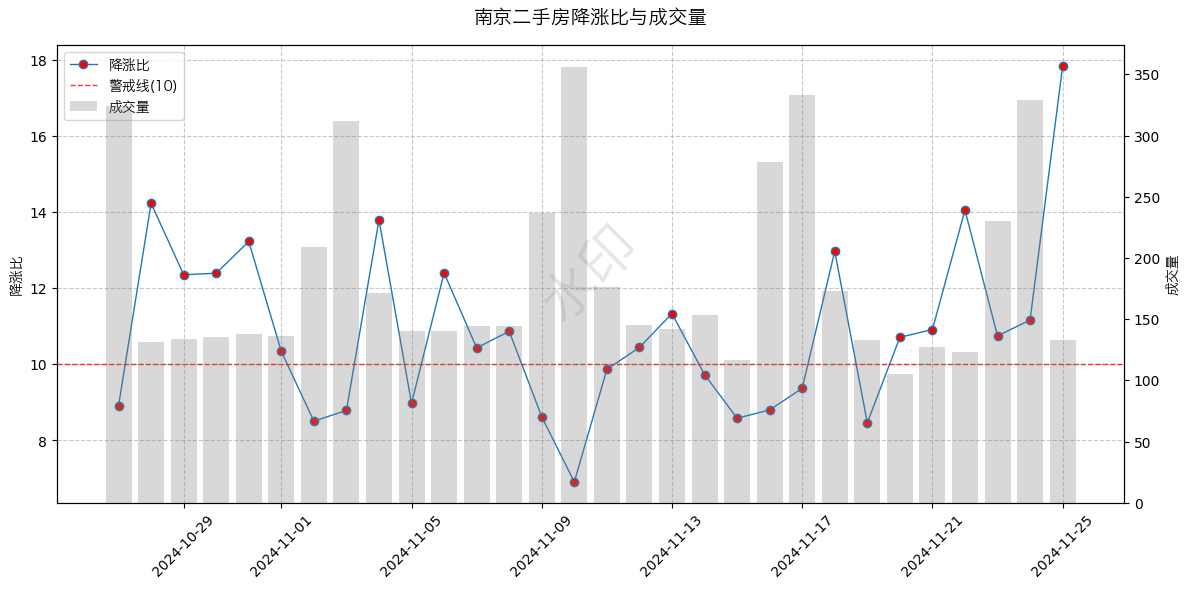
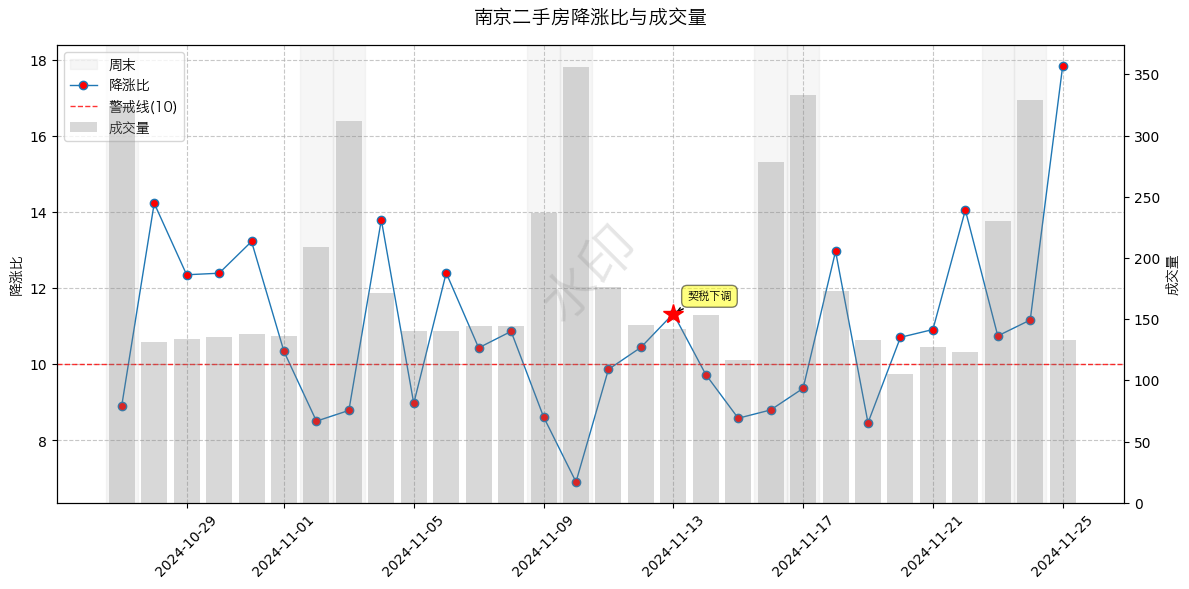
update py

diff --git a/house_scripts/plot_njhouse_price_ratio.py b/house_scripts/plot_njhouse_price_ratio.py
@@ -5,8 +5,12 @@ import os
 from matplotlib.font_manager import FontProperties
 
 def plot_price_change_ratio(csv_path):
-    # 读取CSV文件
+    # 读取房价数据
     df = pd.read_csv(csv_path, encoding='utf-8-sig')
+    
+    # 读取政策数据
+    policy_df = pd.read_csv('./njhouse_stock_daily/njhouse_policy.csv', encoding='utf-8-sig')
+    policy_df['日期'] = pd.to_datetime(policy_df['日期'])
     
     # 将日期列转换为日期类型
     df['日期'] = pd.to_datetime(df['日期'])
@@ -22,6 +26,19 @@ def plot_price_change_ratio(csv_path):
     
     # 创建图表和第一个Y轴
     fig, ax1 = plt.subplots(figsize=(12, 6))  # 调整图表大小
+    
+    # 在创建图表之后，绘制主数据线之前添加周末背景
+    # 获取周末的日期
+    weekend_mask = df['日期'].dt.dayofweek.isin([5, 6])  # 5是周六，6是周日
+    weekend_dates = df[weekend_mask]['日期']
+    
+    # 为每个周末日期添加垂直的背景色带
+    for date in weekend_dates:
+        ax1.axvspan(date - pd.Timedelta(hours=12),  # 向左偏移12小时
+                   date + pd.Timedelta(hours=12),  # 向右偏移12小时
+                   alpha=0.2,
+                   color='lightgray',
+                   label='周末' if date == weekend_dates.iloc[0] else "")  # 只在图例中显示一次
     
     # 绘制主数据线（降涨比）
     line1 = ax1.plot(df['日期'], df['价格变动比'], 
@@ -58,7 +75,18 @@ def plot_price_change_ratio(csv_path):
     # 合并两个轴的图例
     lines1, labels1 = ax1.get_legend_handles_labels()
     lines2, labels2 = ax2.get_legend_handles_labels()
-    ax1.legend(lines1 + lines2, labels1 + labels2, prop=font, loc='upper left')
+    
+    # 移除重复的周末图例（如果有的话）
+    unique_labels = []
+    unique_lines = []
+    seen_labels = set()
+    for line, label in zip(lines1 + lines2, labels1 + labels2):
+        if label not in seen_labels:
+            seen_labels.add(label)
+            unique_labels.append(label)
+            unique_lines.append(line)
+    
+    ax1.legend(unique_lines, unique_labels, prop=font, loc='upper left')
     
     # 设置标题
     ax1.set_title('南京二手房降涨比与成交量', 
@@ -83,6 +111,31 @@ def plot_price_change_ratio(csv_path):
     # 调整x轴显示
     ax1.tick_params(axis='x', rotation=45)
     plt.tight_layout()
+    
+    # 在图表上标注政策点
+    for idx, row in policy_df.iterrows():
+        # 找到政策日期对应的降涨比值
+        if row['日期'] in df['日期'].values:
+            y_value = df[df['日期'] == row['日期']]['价格变动比'].values[0]
+            
+            # 添加政策点标记
+            ax1.plot(row['日期'], y_value, 
+                    marker='*',
+                    markersize=15,
+                    color='red',
+                    zorder=5)
+            
+            # 添加政策说明文本
+            ax1.annotate(row['政策'],
+                        xy=(row['日期'], y_value),
+                        xytext=(10, 10),
+                        textcoords='offset points',
+                        fontproperties=font,
+                        fontsize=8,
+                        bbox=dict(boxstyle='round,pad=0.5',
+                                fc='yellow',
+                                alpha=0.5),
+                        arrowprops=dict(arrowstyle='->'))
     
     # 获取当前日期
     current_date = datetime.now().strftime('%Y-%m-%d')

diff --git a/house_scripts/plot_njhouse_stock.py b/house_scripts/plot_njhouse_stock.py
@@ -10,15 +10,27 @@ plt.rcParams['axes.unicode_minus'] = False     # 解决负号显示问题
 def plot_total_listings(csv_path):
     # 读取CSV文件
     df = pd.read_csv(csv_path, encoding='utf-8-sig')
+    policy_df = pd.read_csv('./njhouse_stock_daily/njhouse_policy.csv', encoding='utf-8-sig')
     
     # 确保日期列是datetime格式
     df['日期'] = pd.to_datetime(df['日期'])
+    policy_df['日期'] = pd.to_datetime(policy_df['日期'])
     
     # 按日期排序
     df = df.sort_values('日期')
     
     # 创建图表和主Y轴
     fig, ax1 = plt.subplots(figsize=(12, 6))
+    
+    # 标记周末背景
+    weekend_mask = df['日期'].dt.dayofweek.isin([5, 6])  # 5是周六，6是周日
+    weekend_dates = df[weekend_mask]['日期']
+    for date in weekend_dates:
+        ax1.axvspan(date - pd.Timedelta(hours=12), 
+                   date + pd.Timedelta(hours=12),
+                   alpha=0.1,
+                   color='gray',
+                   label='周末' if date == weekend_dates.iloc[0] else "")
     
     # 绘制总挂牌房源（折线图，主Y轴）
     color1 = 'tab:blue'
@@ -35,15 +47,40 @@ def plot_total_listings(csv_path):
     bars = ax2.bar(df['日期'], df['昨日住宅成交量'], alpha=0.3, color=color2, label='昨日住宅成交量')
     ax2.tick_params(axis='y', labelcolor=color2)
     
+    # 标注政策点
+    for idx, row in policy_df.iterrows():
+        if row['日期'] in df['日期'].values:
+            # 获取政策日期对应的总挂牌房源数据
+            y_value = df[df['日期'] == row['日期']]['总挂牌房源'].values[0]
+            
+            # 添加政策点标记
+            ax1.plot(row['日期'], y_value,
+                    marker='*',
+                    markersize=15,
+                    color='red',
+                    zorder=5)
+            
+            # 添加政策说明文本
+            ax1.annotate(f"{row['政策']}\n{row['具体内容']}",
+                        xy=(row['日期'], y_value),
+                        xytext=(10, 10),
+                        textcoords='offset points',
+                        fontsize=8,
+                        bbox=dict(boxstyle='round,pad=0.5',
+                                fc='yellow',
+                                alpha=0.5),
+                        arrowprops=dict(arrowstyle='->'))
+    
     # 设置标题
     plt.title('南京房市数据统计', fontsize=14, pad=15)
     
-    # 添加图例
-    # 合并折线图和柱状图的图例
-    ax1.legend(line1 + [bars], ['总挂牌房源', '昨日住宅成交量'], loc='upper left')
+    # 合并所有图例
+    lines1, labels1 = ax1.get_legend_handles_labels()
+    lines2, labels2 = ax2.get_legend_handles_labels()
+    ax1.legend(lines1 + [bars], labels1 + ['昨日住宅成交量'], loc='upper left')
     
     # 设置x轴日期格式
-    plt.gcf().autofmt_xdate()  # 自动调整日期标签角度
+    plt.gcf().autofmt_xdate()
     
     # 添加水印
     ax1.text(0.5, 0.5, '水印',
